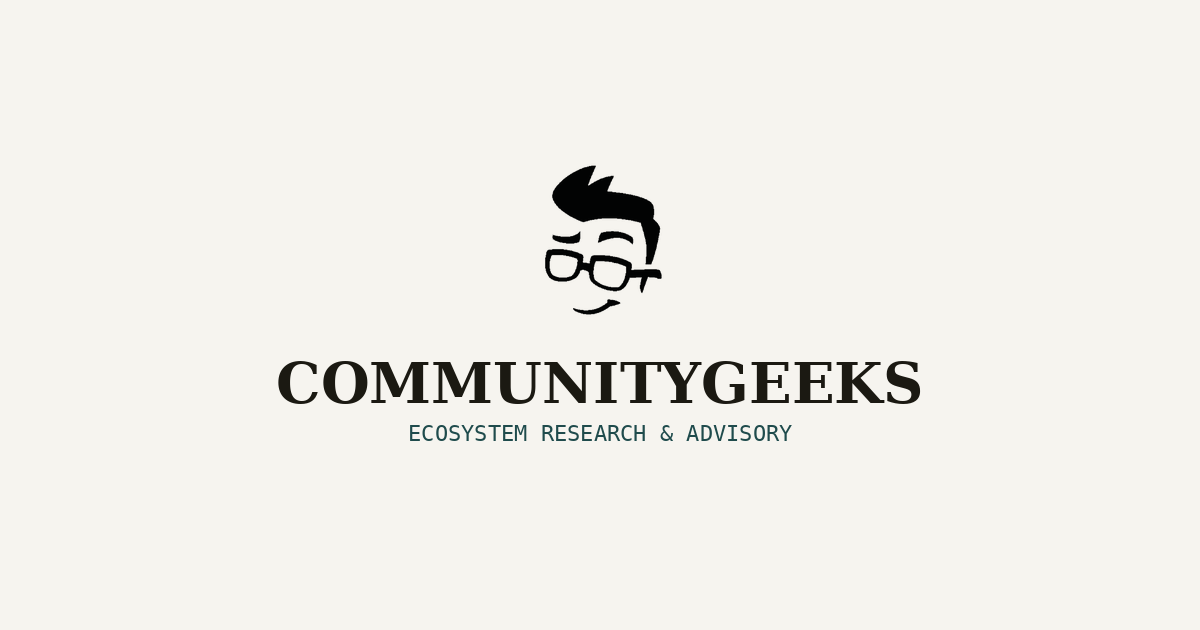
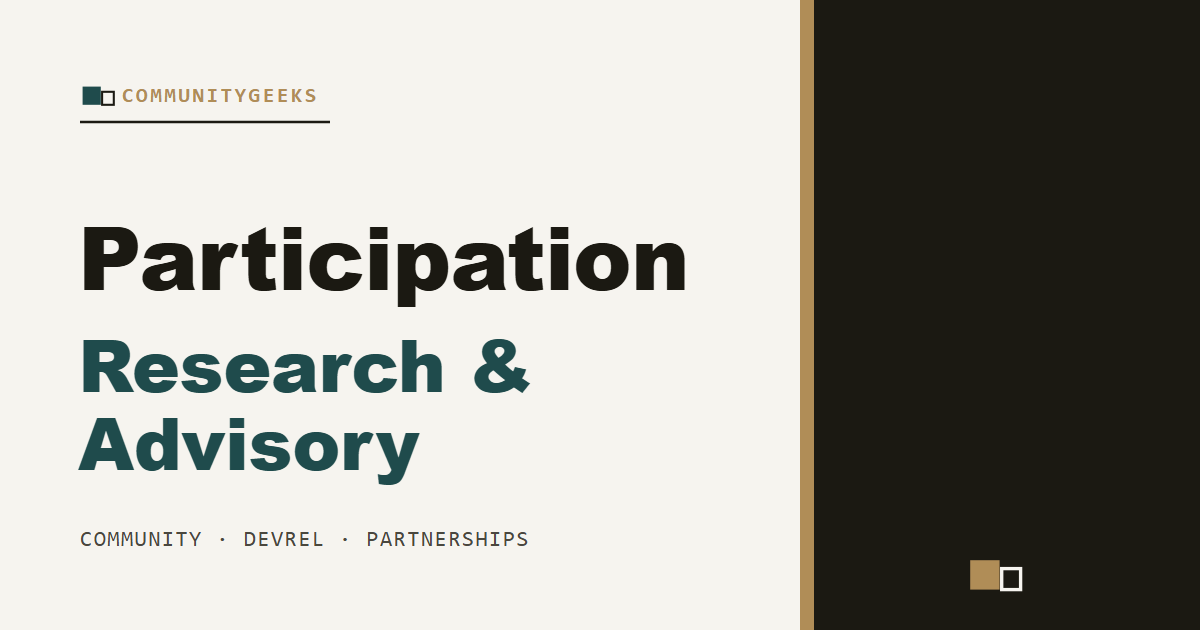
Redesign the social/OG preview image to match the new visual identity
Replaces the old centered-wordmark-on-cream card with an asymmetric
composition in the site's own language: a two-tone headline
("Participation" / "Research & Advisory", the same phrase used in the
homepage hero), a flat ink plane with the brass structural tick used
elsewhere in this pass, and the node-mark reduced to a small secondary
signature rather than the primary composition.

Adds og:image width/height/type/alt and explicit twitter:title/
description/image metadata. Page title/description are untouched.
Source SVG kept alongside the rendered PNG for future edits.

Full rationale in HANDOFF.md S30.

diff --git a/HANDOFF.md b/HANDOFF.md
@@ -333,3 +333,15 @@ Same day, found by Carmelito after §28 gave the DeepL logo a bigger, more promi
 **Verified in both places this asset is used** — the Selected Work grid (§27/28's larger frame) and the trust marquee — the hexagon now shows its interior notch/detail in both, at both sizes. `npm run build` clean.
 
 **If `deepl.svg` is ever replaced with a fresh export from DeepL's press page, check first whether the new file already encodes the interior as real transparency** (most modern vector exports do) before assuming this `<mask>` workaround is still needed — it was specifically a symptom of how this particular file was hand-assembled from two separate source assets, not a general requirement for logos in this system. No other logo file was audited for the same issue as part of this fix; if a future logo swap shows a similarly "filled-in" silhouette, this is the first thing to check.
+
+## 30. Social/OG preview image redesigned (2026-08-30)
+
+Same day, per Carmelito's own comment on the "obsolete" LinkedIn preview (a small old wordmark centered on plain cream — visibly disconnected from the site now that §21–29's visual pass had shipped).
+
+**New image**: `src/assets/images/og-image.png` (1200×630, replaces the old placeholder noted as such in §8 item 2 — that ambiguity is resolved now). Composition: an asymmetric two-field split — left ~800px is the typographic field (`COMMUNITYGEEKS` kicker with the node-mark + a thin rule, then the two-tone headline "Participation" in ink / "Research & Advisory" in petrol — the exact phrase already used in the homepage hero's black card, kept for consistency — then a mono supporting line, "COMMUNITY · DEVREL · PARTNERSHIPS"); right ~400px is one flat ink plane with the same brass structural tick already established twice elsewhere in this pass (Figure 1's company block, the homepage product bar), plus the node-mark again, small, in `panel-ink` colors (brass solid / paper open) as the one place the mark appears — a secondary signature, not the composition's anchor, per Carmelito's explicit instruction not to reuse the old centered-logo treatment.
+
+**Source kept**: `src/assets/images/og-image-source.svg` is the editable source (viewBox exactly 1200×630, no scaling needed to rasterize); the PNG is a direct headless-browser screenshot of it at 1×. If this image needs updating again, edit the SVG and re-screenshot rather than hand-editing the PNG. It's passed through to `_site/assets/images/` alongside the PNG by the existing blanket `addPassthroughCopy({"src/assets":"assets"})` rule — harmless (an unused-but-public source file, same pattern as the diagram SVGs elsewhere in this repo), not something that needs special-casing out.
+
+**Metadata** (`src/_includes/layouts/base.njk`): added `og:image:width`/`height`/`type`/`alt` (none of these existed before — LinkedIn/Slack unfurlers work without them but render more reliably with them present), and explicit `twitter:title`/`twitter:description`/`twitter:image` (previously relied entirely on Twitter's og: fallback, which works but isn't guaranteed on every platform). `og:title`/`og:description`/page `<title>` were **not** touched — same variables, same values, verified in the built `_site/index.html` output before considering this done. `src/lib/publicThinkingLoader.js`'s `DEFAULT_IMAGE` constant already pointed at `og-image.png` by filename, so every Public Thinking piece's own social card picks up the new design automatically — no separate edit needed there.
+
+**Verified:** rendered the source SVG at full size (1200×630) and at approximately LinkedIn's small link-preview size (~520×273) before finalizing — headline, kicker, and supporting line all stay legible at the small size, which was the actual point of building this as bold flat planes and large type rather than anything finer-grained. `npm run build` clean; confirmed via `file` that the written PNG is genuinely 1200×630 RGB (not, say, an accidentally-scaled or wrong-format output from the screenshot step).
